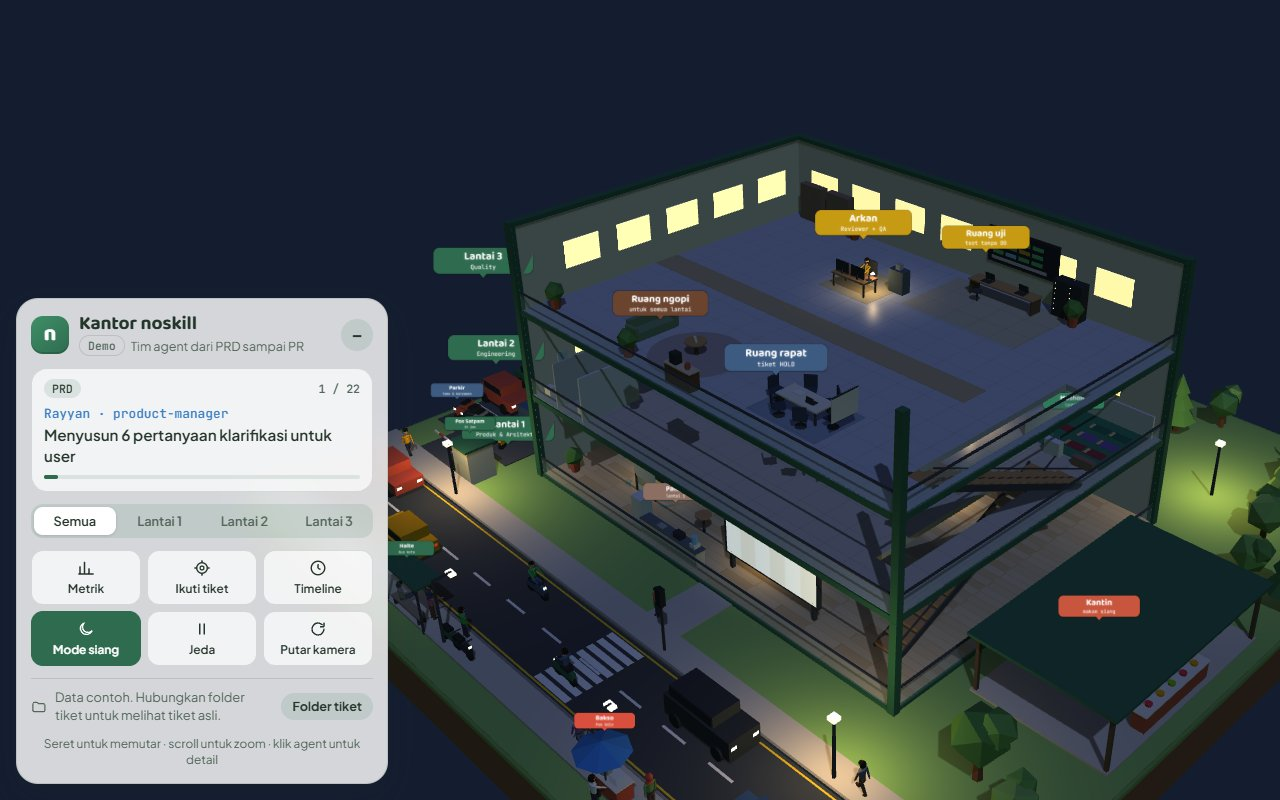
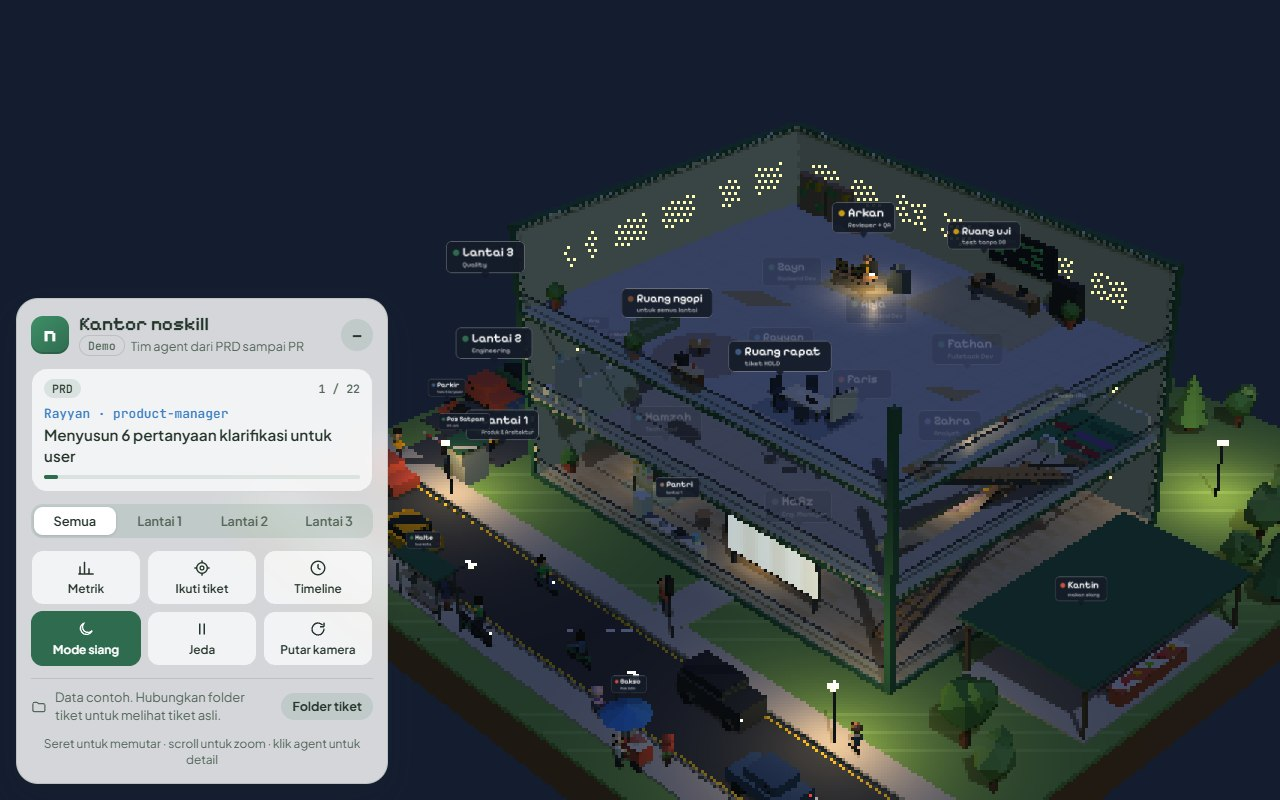
feat(kantor): tampilan pixel-art isometrik dan karakter chibi (2.2.0)
- Dunia 3D dirender 1/3 resolusi lalu diperbesar nearest-neighbour; kamera FOV sempit
- Label dan gelembung dirender terpisah di resolusi penuh; label tertutup lantai atas dibuat samar
- Karakter chibi: kepala 1.7x, kaki lebih pendek, mata besar, pipi merona; offset duduk disesuaikan
- Papan nama gelap dengan titik warna agent dan font Pixelify Sans
- Versi 2.2.0, CHANGELOG, README, docs, dan screenshot

Changed region(s): [[0.2812, 0.1562, 1.0, 1.0], [0.0625, 0.375, 0.1562, 0.4375], [0.375, 0.6562, 0.4062, 0.6875]]

diff --git a/skills/kantor/kantor-noskill.html b/skills/kantor/kantor-noskill.html
@@ -1,7 +1,7 @@
 <title>Kantor noskill</title>
 <link rel="preconnect" href="https://fonts.googleapis.com">
 <link rel="preconnect" href="https://fonts.gstatic.com" crossorigin>
-<link href="https://fonts.googleapis.com/css2?family=Baloo+2:wght@500;700&family=JetBrains+Mono:wght@500&family=Plus+Jakarta+Sans:wght@400;500;600;700&display=swap" rel="stylesheet">
+<link href="https://fonts.googleapis.com/css2?family=Baloo+2:wght@500;700&family=JetBrains+Mono:wght@500&family=Plus+Jakarta+Sans:wght@400;500;600;700&family=Pixelify+Sans:wght@500;600&display=swap" rel="stylesheet">
 <style>
   /* Layout: full-screen 3D office diorama, one floating panel bottom-left with the live ticket log */
   :root {
@@ -15,7 +15,7 @@
     --edge: rgba(36, 53, 42, 0.14);
     --log: rgba(47, 107, 79, 0.08);
     --font-display: "Plus Jakarta Sans", system-ui, -apple-system, "Segoe UI", sans-serif;
-    --font-title: "Baloo 2", "Nunito", "Trebuchet MS", system-ui, sans-serif;
+    --font-title: "Pixelify Sans", "Baloo 2", "Nunito", system-ui, sans-serif;
     --card: rgba(255, 255, 255, 0.7);
     --panel-solid: #ffffff;
     --shadow: 0 12px 32px rgba(20, 40, 30, 0.16), 0 2px 6px rgba(20, 40, 30, 0.08);
@@ -374,26 +374,37 @@
   // ---------- Renderer, scene, camera ----------
   const stage = document.getElementById('stage');
   let renderer;
-  try { renderer = new THREE.WebGLRenderer({ antialias: true }); }
+  try { renderer = new THREE.WebGLRenderer({ antialias: false }); }
   catch (e) { document.getElementById('err').hidden = false; return; }
   renderer.setPixelRatio(Math.min(window.devicePixelRatio || 1, 2));
   renderer.shadowMap.enabled = true;
-  renderer.shadowMap.type = THREE.PCFSoftShadowMap;
+  renderer.shadowMap.type = THREE.PCFShadowMap;
+  renderer.shadowMap.autoUpdate = false;     // updated once per frame in frame(), not again for the label pass
   stage.appendChild(renderer.domElement);
+
+  // Pixel-art look: the world (layer 0) renders into a small target that is shown enlarged with nearest-neighbour
+  // sampling, so every texel becomes a PIX x PIX block. Labels and bubbles (layer 1) render afterwards at full
+  // resolution on top, so their text stays crisp.
+  const PIX = 3;
+  const pixTarget = new THREE.WebGLRenderTarget(1, 1, { minFilter: THREE.NearestFilter, magFilter: THREE.NearestFilter });
+  const postScene = new THREE.Scene(), postCam = new THREE.OrthographicCamera(-1, 1, 1, -1, 0, 1);
+  postScene.add(new THREE.Mesh(new THREE.PlaneGeometry(2, 2), new THREE.MeshBasicMaterial({ map: pixTarget.texture, depthTest: false, depthWrite: false })));
+  const LABEL_LAYER = 1;
 
   const scene = new THREE.Scene();
   const DAY_BG = new THREE.Color(0xbfe3f2);
   const NIGHT_BG = new THREE.Color(0x141d30);
   scene.background = DAY_BG.clone();
-  scene.fog = new THREE.Fog(DAY_BG.clone(), 110, 220);
+  scene.fog = new THREE.Fog(DAY_BG.clone(), 420, 800);
 
-  const camera = new THREE.PerspectiveCamera(35, 1, 0.1, 600);
+  // a narrow field of view from further away reads as (almost) isometric, like a pixel-art diorama
+  const camera = new THREE.PerspectiveCamera(24, 1, 0.5, 800);
   const controls = new THREE.OrbitControls(camera, renderer.domElement);
   controls.target.set(0, 6, 0);
   controls.enableDamping = true;
   controls.dampingFactor = 0.08;
-  controls.minDistance = 16;
-  controls.maxDistance = 160;
+  controls.minDistance = 24;
+  controls.maxDistance = 240;
   controls.maxPolarAngle = Math.PI * 0.47;
   const reduceMotion = window.matchMedia && window.matchMedia('(prefers-reduced-motion: reduce)').matches;
   controls.autoRotate = !reduceMotion;
@@ -402,7 +413,7 @@
   // camera distance for the whole office (n = -1) or one storey; narrow screens step back to fit the width
   function viewDist(n, aspect) {
     aspect = aspect || stage.clientWidth / stage.clientHeight;
-    const base = n < 0 ? 66 : 46;
+    const base = n < 0 ? 98 : 68;
     return base * Math.max(1, Math.min(2, 1.75 / aspect));
   }
   let distGoal = null;
@@ -414,6 +425,7 @@
   function resize() {
     const w = stage.clientWidth, h = stage.clientHeight;
     renderer.setSize(w, h, false);
+    pixTarget.setSize(Math.max(1, Math.round(w / PIX)), Math.max(1, Math.round(h / PIX)));
     camera.aspect = w / h;
     // on wide screens the open panel covers the left; shift the picture right so the office sits beside it
     const pn = document.getElementById('panel');
@@ -530,11 +542,13 @@
     const t = new THREE.CanvasTexture(cv); t.wrapS = t.wrapT = THREE.RepeatWrapping; t.anisotropy = 4;
     return t;
   });
+  const SLABS = [];   // floor slabs, used to dim labels hidden behind an upper storey (see scaleLabels)
   function floorPiece(k, w, d, x, y, z, o) {
     const t = floorTex[k].clone(); t.needsUpdate = true;
     const tile = k === 0 ? 4 : 1.6;
     t.repeat.set(w / tile, d / tile);
     const m = box(w, 0.3, d, 0, x, y, z, Object.assign({ material: new THREE.MeshStandardMaterial({ map: t, roughness: k === 0 ? 0.7 : 0.45 }) }, o));
+    SLABS.push(m);
     return m;
   }
   function slab(k) {
@@ -612,6 +626,7 @@
   // People with human proportions: rounded torso and limbs, shoes, belt, a face with eyes, irises, brows,
   // nose, lips and ears, per-person hair styles, beard, glasses, tie, ID card, and a hijab that frames the
   // face. Pivots stay where the poses expect them: legs at the hip, arms at the shoulder, hand 0.72 below it.
+  const CHIBI = 1.7, CHIBI_LEG = 0.75;
   function makePerson(o) {
     const g = new THREE.Group();
     const hip = 0.95, hy = hip + 1.1;
@@ -658,8 +673,10 @@
     [0.172, -0.172].forEach(function (ex) { part(g, SPHERE(0.042), skin, ex, hy - 0.01, -0.01, { s: [0.45, 1, 0.8] }); });
     // face: eyes with irises, brows, nose, lips
     [0.068, -0.068].forEach(function (ex) {
-      part(g, SPHERE(0.026), white, ex * 0.92, hy + 0.025, 0.158, { s: [1.2, 0.68, 0.45] });
-      part(g, SPHERE(0.014), dark, ex * 0.92, hy + 0.025, 0.169, { s: [1, 1, 0.5] });
+      part(g, SPHERE(0.032), white, ex * 0.95, hy + 0.02, 0.156, { s: [1.0, 1.1, 0.45] });        // big chibi eyes
+      part(g, SPHERE(0.028), smat(0x2b1d14, 0.3), ex * 0.95, hy + 0.012, 0.165, { s: [0.95, 1.15, 0.5] });
+      part(g, SPHERE(0.008), white, ex * 0.95 + 0.009, hy + 0.028, 0.18);                         // eye highlight
+      part(g, SPHERE(0.03), smat(0xf2a3a0, 0.6), ex * 1.45, hy - 0.045, 0.14, { s: [1.1, 0.6, 0.35] });   // blush
       part(g, geo('brow', function () { return new THREE.BoxGeometry(0.062, 0.013, 0.018); }), o.hijab ? smat(0x2b1d14, 0.85) : hairM, ex * 0.92, hy + 0.068, 0.162, { r: [0, 0, ex > 0 ? -0.1 : 0.1] });
     });
     part(g, SPHERE(0.026), skin, 0, hy - 0.022, 0.18, { s: [0.7, 1.35, 1.15] });
@@ -677,7 +694,7 @@
       const hj = smat(o.hijab, 0.85, THREE.DoubleSide), W = 1.9;
       part(g, SHELL(0.215, Math.PI / 2 + W / 2, Math.PI * 2 - W, 0, Math.PI * 0.8), hj, 0, hy + 0.01, -0.01, { s: [0.97, 1.12, 1.02], cast: true });
       part(g, SHELL(0.215, Math.PI / 2 - W / 2, W, 0, Math.PI * 0.27), hj, 0, hy + 0.01, -0.01, { s: [0.97, 1.12, 1.02] });
-      part(g, TUBE(0.15, 0.27, 0.3), hj, 0, hip + 0.83, 0.01, { s: [1, 1, 0.72], cast: true });
+      part(g, TUBE(0.15, 0.27, 0.3), hj, 0, hip + 0.83, 0.01, { s: [1, 1, 0.72], cast: true }).userData.head = true;
     } else {
       const style = o.style || 'short';
       part(g, SHELL(0.2, 0, Math.PI * 2, 0, Math.PI * 0.4), hairM, 0, hy + 0.01, -0.005, { s: [1.0, 1.15, 1.04], cast: true });
@@ -694,7 +711,16 @@
         part(g, geo('stache', function () { return new THREE.BoxGeometry(0.075, 0.016, 0.02); }), hairM, 0, hy - 0.058, 0.17);
       }
     }
-    g.scale.setScalar(o.scale || 0.75);
+    // chibi: everything above the neck (and the hijab drape) moves into one group that grows from the neck,
+    // so the head and face read at pixel-art size, like the agents in a pixel office
+    const head = new THREE.Group(); head.position.set(0, hip + 0.9, 0); g.add(head);
+    g.children.slice().forEach(function (c) { if (c.isMesh && (c.position.y > hip + 0.95 || c.userData.head)) head.attach(c); });
+    head.scale.setScalar(CHIBI);
+    // chibi legs: shorter, with the whole body lowered so the shoes still touch the floor
+    const drop = 0.915 * (1 - CHIBI_LEG);
+    legL.scale.y = legR.scale.y = CHIBI_LEG;
+    g.children.forEach(function (c) { c.position.y -= drop; });
+    g.scale.setScalar(o.scale || 0.72);
     g.userData = { legL: legL, legR: legR, armL: armL, armR: armR, female: !!o.hijab };
     (o.parent || scene).add(g);
     return g;
@@ -710,34 +736,38 @@
     const tex = new THREE.CanvasTexture(cv);
     function draw() {
       const x = cv.getContext('2d');
+      // pixel-office name tag: dark pill, a dot in the agent's colour, white name, muted role underneath
       x.clearRect(0, 0, 512, 168);
-      x.fillStyle = hex(color);
+      x.font = '600 50px "Pixelify Sans", "Baloo 2", sans-serif';
+      const w = Math.min(496, Math.max(x.measureText(title).width + 110, 260)), x0 = (512 - w) / 2;
+      x.fillStyle = 'rgba(20, 27, 40, 0.92)';
       x.beginPath();
-      if (x.roundRect) x.roundRect(8, 8, 496, 132, 30); else x.rect(8, 8, 496, 132);
+      if (x.roundRect) x.roundRect(x0, 10, w, 128, 22); else x.rect(x0, 10, w, 128);
       x.fill();
-      x.beginPath(); x.moveTo(236, 138); x.lineTo(256, 162); x.lineTo(276, 138); x.fill();
-      x.fillStyle = '#ffffff';
-      x.textAlign = 'center'; x.textBaseline = 'middle';
-      x.font = '700 54px "Baloo 2", "Trebuchet MS", sans-serif';
-      x.fillText(title, 256, 58);
-      x.font = '500 30px "JetBrains Mono", Menlo, monospace';
-      x.globalAlpha = 0.92;
-      x.fillText(sub, 256, 108);
-      x.globalAlpha = 1;
+      x.strokeStyle = 'rgba(255, 255, 255, 0.18)'; x.lineWidth = 3; x.stroke();
+      x.beginPath(); x.moveTo(240, 137); x.lineTo(256, 158); x.lineTo(272, 137); x.fill();
+      x.fillStyle = hex(color); x.beginPath(); x.arc(x0 + 40, 56, 13, 0, Math.PI * 2); x.fill();
+      x.fillStyle = '#ffffff'; x.textAlign = 'left'; x.textBaseline = 'middle';
+      x.fillText(title, x0 + 66, 56, w - 84);
+      x.font = '500 28px "Pixelify Sans", "JetBrains Mono", monospace';
+      x.fillStyle = 'rgba(255, 255, 255, 0.62)';
+      x.fillText(sub, x0 + 66, 106, w - 84);
       tex.needsUpdate = true;
     }
     draw();
     if (document.fonts && document.fonts.ready) document.fonts.ready.then(draw);
     const sp = new THREE.Sprite(new THREE.SpriteMaterial({ map: tex, transparent: true, depthWrite: false }));
     sp.scale.set(4.4, 1.44, 1);
+    sp.layers.set(LABEL_LAYER);
     LABELS.push(sp);
     return sp;
   }
   // Labels are placed by their centre; the first time one is seen it is re-anchored on its bottom tip, so growing
   // it for a far camera pushes it up instead of over the agent's head. Then it scales with camera distance:
   // small when zoomed in on a storey, larger from the overview, within limits.
+  const labelRay = new THREE.Raycaster(), labelPos = new THREE.Vector3(), labelPos2 = new THREE.Vector3();
   function scaleLabels() {
-    const f = Math.max(0.85, Math.min(1.6, camera.position.distanceTo(controls.target) / 55));
+    const f = Math.max(0.3, Math.min(1.6, camera.position.distanceTo(controls.target) / 66));
     for (let i = LABELS.length - 1; i >= 0; i--) {
       const sp = LABELS[i];
       if (!sp.parent) { LABELS.splice(i, 1); continue; }
@@ -748,6 +778,12 @@
         Object.keys(ST).forEach(function (k) { if (ST[k].label === sp) ST[k].labelY -= sp.scale.y / 2; });
       }
       sp.scale.set(sp.userData.base.x * f, sp.userData.base.y * f, 1);
+      // labels render on top of the pixel world, so dim the ones an upper floor slab stands in front of
+      sp.getWorldPosition(labelPos);
+      labelRay.set(camera.position, labelPos.sub(camera.position).normalize());
+      labelRay.far = camera.position.distanceTo(sp.getWorldPosition(labelPos2));
+      const hidden = labelRay.intersectObjects(SLABS.filter(function (m) { return m.parent.visible; }), false).length > 0;
+      sp.material.opacity += ((hidden ? 0.18 : 1) - sp.material.opacity) * 0.2;
     }
   }
 
@@ -853,7 +889,7 @@
       tie: look.tie || null, card: a.color, parent: g
     });
     person.userData.key = a.key;
-    person.position.set(0, -0.18, 0);
+    person.position.set(0, 0, 0);
     person.userData.legL.rotation.x = -Math.PI / 2;
     person.userData.legR.rotation.x = -Math.PI / 2;
 
@@ -1115,11 +1151,11 @@
   // Places agents can walk to: the shared coffee corner and the meeting room
   const PLACES = {
     lounge: { floor: LOUNGE_FLOOR, x: LOUNGE.x, z: LOUNGE.z, spots: LOUNGE_SPOTS, taken: loungeTaken },
-    meeting: { floor: MEETING_FLOOR, x: MEETING.x, z: MEETING.z, spots: [[-0.7, -0.95], [0.7, -0.95], [-0.7, 0.95], [0.7, 0.95], [-1.75, 0], [1.75, 0]], taken: {}, seat: 0.18 },
+    meeting: { floor: MEETING_FLOOR, x: MEETING.x, z: MEETING.z, spots: [[-0.7, -0.95], [0.7, -0.95], [-0.7, 0.95], [0.7, 0.95], [-1.75, 0], [1.75, 0]], taken: {}, seat: 0.01 },
     pantry: { floor: 0, x: PANTRY.x, z: PANTRY.z, spots: [[0, -0.85], [0.85, 0], [-0.85, 0], [0, 0.85]], taken: {}, stay: [18, 35] },
     toilet: { floor: 1, x: TOILET.x, z: TOILET.z, spots: [[-1.1, 0.4], [1.1, 0.4]], taken: {}, stay: [7, 11], hide: true },
     musholla: { floor: 1, x: MUSHOLLA.x, z: MUSHOLLA.z, spots: [[-1.3, 0, -Math.PI / 2], [0.2, -1.1, -Math.PI / 2], [0.2, 0, -Math.PI / 2], [0.2, 1.1, -Math.PI / 2], [1.4, -1.1, -Math.PI / 2], [1.4, 0, -Math.PI / 2], [1.4, 1.1, -Math.PI / 2]], taken: {}, stay: [22, 35] },
-    kantin: { floor: 0, x: KANTIN.x, z: KANTIN.z, y: 0.12, via: [[12.9, FY[0], 0.5], [14.8, 0.12, 0.5]], seat: 0.34, taken: {}, stay: [40, 80],
+    kantin: { floor: 0, x: KANTIN.x, z: KANTIN.z, y: 0.12, via: [[12.9, FY[0], 0.5], [14.8, 0.12, 0.5]], seat: 0.15, taken: {}, stay: [40, 80],
       spots: [[-1.95, -1.2, Math.PI / 2], [-1.95, 0.4, Math.PI / 2], [-1.95, 2.0, Math.PI / 2], [-0.45, -1.2, -Math.PI / 2], [-0.45, 0.4, -Math.PI / 2], [-0.45, 2.0, -Math.PI / 2],
         [0.65, -1.2, Math.PI / 2], [0.65, 0.4, Math.PI / 2], [0.65, 2.0, Math.PI / 2], [2.15, -1.2, -Math.PI / 2], [2.15, 0.4, -Math.PI / 2]] }
   };
@@ -1228,6 +1264,7 @@
     const tex = new THREE.CanvasTexture(cv);
     const sp = new THREE.Sprite(new THREE.SpriteMaterial({ map: tex, transparent: true, depthWrite: false }));
     sp.scale.set(4.5, 1.05, 1);
+    sp.layers.set(LABEL_LAYER);
     scene.add(sp);
     return sp;
   }
@@ -3027,7 +3064,17 @@
       applyNight(night);
     }
     controls.update();
-    renderer.render(scene, camera);
+    renderer.shadowMap.needsUpdate = true;
+    renderer.setRenderTarget(pixTarget);
+    renderer.render(scene, camera);                       // world, small
+    renderer.setRenderTarget(null);
+    renderer.render(postScene, postCam);                  // enlarged, blocky
+    const bg = scene.background;                          // a colour background would clear the frame again
+    scene.background = null; renderer.autoClear = false;
+    camera.layers.set(LABEL_LAYER);
+    renderer.render(scene, camera);                       // labels and bubbles, full resolution, on top
+    camera.layers.set(0);
+    scene.background = bg; renderer.autoClear = true;
     requestAnimationFrame(frame);
   }
   requestAnimationFrame(frame);

diff --git a/docs/skills.html b/docs/skills.html
@@ -161,7 +161,7 @@ html { scroll-behavior: smooth; }
         <figure><img src="img/kantor-malam.jpg" alt="Kantor saat malam dengan lampu meja dan lampu jalan menyala" width="1280" height="800" loading="lazy"><figcaption>Mode malam: lampu meja dan lampu jalan menyala.</figcaption></figure>
       </div>
       </div>
-      <dl><dt>Cara pakai</dt><dd><code>/noskill:kantor</code>. Di Cowork/claude.ai halaman diterbitkan sebagai artifact milikmu (atau artifact lama diperbarui). Di Claude Code terminal halaman disalin ke folder docs dan berjalan dalam mode demo.</dd><dt>Lantai</dt><dd><ul><li>Lantai 1, Produk &amp; Arsitektur: Product Manager, CTO, Analyst, Tech Lead, Eng. Manager dengan board tiket.</li><li>Lantai 2, Engineering: Backend, Frontend, Fullstack Dev.</li><li>Lantai 3, Quality: Reviewer (sekaligus QA) di samping <em>Ruang uji</em> (papan CI dan rak server yang lampunya hijau/merah mengikuti verdict), plus rak buku.</li><li><em>Ruang ngopi</em> bersama di Lantai 3: agent dari semua lantai yang tidak punya pekerjaan sekitar 20 detik naik ke sana untuk ngopi, lalu kembali ke mejanya begitu ada tiket atau tahap untuknya.</li><li>Fasilitas lain: <em>Pantri</em> di Lantai 1, <em>Toilet</em> dan <em>Musholla</em> di Lantai 2, dan <em>Kantin</em> di halaman. Agent yang menganggur bergantian ke sana atau mampir ngobrol ke meja rekan; saat waktu salat ke musholla, saat makan siang ke kantin.</li><li>Agent saling menyapa dan mengobrol lewat gelembung bicara, dan penerima tiket membalas kurir yang mengantarnya.</li><li>Di luar kantor ada jalan raya dengan mobil dan motor yang berhenti di zebra cross saat ada orang menyeberang, parkiran dengan pos satpam, halte, pangkalan ojek, dan gerobak bakso.</li></ul></dd><dt>Yang bisa dilakukan</dt><dd><ul><li>Karakter semi-realistis dengan ciri masing-masing (hijab, jenggot, kacamata, gaya rambut); lantai 1 berparket, lantai 2–3 berubin.</li><li>Panel: langkah yang sedang berjalan dengan progres, pemilih lantai, dan toolbar (Metrik, Ikuti tiket, Timeline, Mode malam, Jeda, Putar kamera).</li><li>Klik agent: kartu dengan avatar, deskripsi, skill, tools, model, verdict, dan tiket yang sedang dipegang.</li><li>Klik tiket di board: AC, Riwayat, pemegang, dan <em>Putar ulang perjalanan</em>.</li><li><em>Metrik</em>: durasi rata-rata per tahap dan per agent dari baris Riwayat, ronde revisi terbanyak, daftar HOLD.</li><li>Filter per proyek/fitur, tombol lantai, <em>Ikuti tiket</em> (kamera mengikuti agent yang berjalan), panel yang bisa dikecilkan.</li><li>Orang lain yang membuka kantor tampil di panel dan di lobi Lantai 1.</li><li>Tiket HOLD bisa dijawab langsung di detail tiket; <code>/noskill:tiket lanjut</code> mengambil jawabannya. Selama HOLD, Eng. Manager dan agent pemegang tiket menunggu di <em>Ruang rapat</em> Lantai 3.</li><li>Setiap agent punya nama: Rayyan (PM), Faris (CTO), Zahra (Analyst), Hamzah (Tech Lead), Zayn (Backend), Alya (Frontend), Fathan (Fullstack), Arkan (Reviewer + QA), Hafiz (Eng. Manager).</li><li>Gelembung bicara menampilkan verdict yang dibawa agent, <em>Metrik</em> menampilkan token per agent dan per tiket, dan <em>Timeline</em> menampilkan perpindahan status hari ini.</li><li>Agent yang sedang mengerjakan PRD, ADR, atau BRD ikut menyala, dibaca dari <code>activity.json</code> yang ditulis <code>feature-flow</code>.</li></ul></dd><dt>Data live</dt><dd><ol><li>Tambahkan MCP <code>filesystem</code> di config Claude desktop, berisi folder induk proyek.</li><li>Buka artifact di aplikasi Claude desktop → <em>Folder tiket</em> → tempel path <code>docs/noskill</code> (atau folder <code>tickets</code>), satu per baris → <em>Pakai data live</em>.</li><li>Board disimpan ke database artifact, jadi di browser dan HP tampil sebagai <em>Snapshot</em>.</li></ol></dd><dt>Batasan</dt><dd>Membaca folder lokal hanya bisa di aplikasi Claude desktop dan pada artifact milikmu sendiri. Tanpa data live, halaman memutar contoh alur tiket.</dd></dl>
+      <dl><dt>Cara pakai</dt><dd><code>/noskill:kantor</code>. Di Cowork/claude.ai halaman diterbitkan sebagai artifact milikmu (atau artifact lama diperbarui). Di Claude Code terminal halaman disalin ke folder docs dan berjalan dalam mode demo.</dd><dt>Lantai</dt><dd><ul><li>Lantai 1, Produk &amp; Arsitektur: Product Manager, CTO, Analyst, Tech Lead, Eng. Manager dengan board tiket.</li><li>Lantai 2, Engineering: Backend, Frontend, Fullstack Dev.</li><li>Lantai 3, Quality: Reviewer (sekaligus QA) di samping <em>Ruang uji</em> (papan CI dan rak server yang lampunya hijau/merah mengikuti verdict), plus rak buku.</li><li><em>Ruang ngopi</em> bersama di Lantai 3: agent dari semua lantai yang tidak punya pekerjaan sekitar 20 detik naik ke sana untuk ngopi, lalu kembali ke mejanya begitu ada tiket atau tahap untuknya.</li><li>Fasilitas lain: <em>Pantri</em> di Lantai 1, <em>Toilet</em> dan <em>Musholla</em> di Lantai 2, dan <em>Kantin</em> di halaman. Agent yang menganggur bergantian ke sana atau mampir ngobrol ke meja rekan; saat waktu salat ke musholla, saat makan siang ke kantin.</li><li>Agent saling menyapa dan mengobrol lewat gelembung bicara, dan penerima tiket membalas kurir yang mengantarnya.</li><li>Di luar kantor ada jalan raya dengan mobil dan motor yang berhenti di zebra cross saat ada orang menyeberang, parkiran dengan pos satpam, halte, pangkalan ojek, dan gerobak bakso.</li></ul></dd><dt>Yang bisa dilakukan</dt><dd><ul><li>Tampilan pixel-art isometrik: dunia 3D dirender blocky, papan nama gelap dengan titik warna agent tetap tajam, dan label agent di lantai yang tertutup dibuat samar.</li><li>Karakter chibi (kepala besar, mata besar, pipi merona) dengan ciri masing-masing: hijab, jenggot, kacamata, gaya rambut; lantai 1 berparket, lantai 2–3 berubin.</li><li>Panel: langkah yang sedang berjalan dengan progres, pemilih lantai, dan toolbar (Metrik, Ikuti tiket, Timeline, Mode malam, Jeda, Putar kamera).</li><li>Klik agent: kartu dengan avatar, deskripsi, skill, tools, model, verdict, dan tiket yang sedang dipegang.</li><li>Klik tiket di board: AC, Riwayat, pemegang, dan <em>Putar ulang perjalanan</em>.</li><li><em>Metrik</em>: durasi rata-rata per tahap dan per agent dari baris Riwayat, ronde revisi terbanyak, daftar HOLD.</li><li>Filter per proyek/fitur, tombol lantai, <em>Ikuti tiket</em> (kamera mengikuti agent yang berjalan), panel yang bisa dikecilkan.</li><li>Orang lain yang membuka kantor tampil di panel dan di lobi Lantai 1.</li><li>Tiket HOLD bisa dijawab langsung di detail tiket; <code>/noskill:tiket lanjut</code> mengambil jawabannya. Selama HOLD, Eng. Manager dan agent pemegang tiket menunggu di <em>Ruang rapat</em> Lantai 3.</li><li>Setiap agent punya nama: Rayyan (PM), Faris (CTO), Zahra (Analyst), Hamzah (Tech Lead), Zayn (Backend), Alya (Frontend), Fathan (Fullstack), Arkan (Reviewer + QA), Hafiz (Eng. Manager).</li><li>Gelembung bicara menampilkan verdict yang dibawa agent, <em>Metrik</em> menampilkan token per agent dan per tiket, dan <em>Timeline</em> menampilkan perpindahan status hari ini.</li><li>Agent yang sedang mengerjakan PRD, ADR, atau BRD ikut menyala, dibaca dari <code>activity.json</code> yang ditulis <code>feature-flow</code>.</li></ul></dd><dt>Data live</dt><dd><ol><li>Tambahkan MCP <code>filesystem</code> di config Claude desktop, berisi folder induk proyek.</li><li>Buka artifact di aplikasi Claude desktop → <em>Folder tiket</em> → tempel path <code>docs/noskill</code> (atau folder <code>tickets</code>), satu per baris → <em>Pakai data live</em>.</li><li>Board disimpan ke database artifact, jadi di browser dan HP tampil sebagai <em>Snapshot</em>.</li></ol></dd><dt>Batasan</dt><dd>Membaca folder lokal hanya bisa di aplikasi Claude desktop dan pada artifact milikmu sendiri. Tanpa data live, halaman memutar contoh alur tiket.</dd></dl>
     </section>
     <section class="skill" id="project-profile">
       <h3><code>project-profile</code><span class="tag">sekali per project</span></h3>

diff --git a/docs/index.html b/docs/index.html
@@ -124,7 +124,7 @@
         <div class="eyebrow">Plugin Claude Code</div>
         <h1>noskill</h1>
         <div align="center">
-          <img alt="Version 2.1.0" src="https://img.shields.io/badge/version-2.1.0-1d6b57?style=flat-square&logo=github" />
+          <img alt="Version 2.2.0" src="https://img.shields.io/badge/version-2.2.0-1d6b57?style=flat-square&logo=github" />
         </div>
         <p class="lede">Skill dan agent untuk kerja development seperti tim engineering: tiket dikerjakan developer, lalu reviewer mengecek kode sekaligus menjalankan test dan cara verifikasinya, lalu masuk DONE. Kodenya hanya mengubah yang diminta, bukan refactor tanpa alasan. Cocok untuk bug fix, fitur kecil, fitur besar, dan multi-repo.</p>
         <div class="cmd"><pre>/plugin install noskill --marketplace awahids/noskill</pre><button type="button" data-copy>Salin</button></div>
@@ -247,7 +247,7 @@ claude --plugin-dir ./noskill</pre><button type="button" data-copy>Salin</button
       </table></div>
 
       <h2 id="kantor">Kantor noskill</h2>
-      <p><code>/noskill:kantor</code> membuka kantor 3D tempat agent noskill bekerja. Board tiket dibaca live dari <code>docs/noskill</code>, agent semi-realistis berjalan mengantar tiket ke agent berikutnya, Arkan (Reviewer + QA) bekerja di samping Ruang uji, dan agent yang menganggur ngopi, makan di kantin, atau mampir ngobrol. Detailnya ada di <a href="skills.html#kantor">halaman skill</a>.</p>
+      <p><code>/noskill:kantor</code> membuka kantor 3D tempat agent noskill bekerja. Board tiket dibaca live dari <code>docs/noskill</code>, agent chibi bergaya pixel-art berjalan mengantar tiket ke agent berikutnya, Arkan (Reviewer + QA) bekerja di samping Ruang uji, dan agent yang menganggur ngopi, makan di kantin, atau mampir ngobrol. Detailnya ada di <a href="skills.html#kantor">halaman skill</a>.</p>
       <div class="shots">
         <figure><img src="img/kantor-overview.jpg" alt="Kantor noskill: kantor tiga lantai dengan panel baru, ruang uji, ruang ngopi, ruang rapat, kantin, jalan raya, dan parkiran" width="1280" height="800" loading="lazy"><figcaption>Kantor tiga lantai dengan panel baru, Ruang uji, fasilitas kantor, jalan raya, dan parkiran.</figcaption></figure>
         <div class="row">

diff --git a/README.md b/README.md
@@ -8,7 +8,7 @@
 # noskill
 
 <div align="center">
-  <img alt="Version 2.1.0" src="https://img.shields.io/badge/version-2.1.0-1d6b57?style=flat-square&logo=github" />
+  <img alt="Version 2.2.0" src="https://img.shields.io/badge/version-2.2.0-1d6b57?style=flat-square&logo=github" />
 </div>
 
 Koleksi Claude Skills & Agent untuk kerja development sehari-hari — dipaketkan sebagai plugin `noskill`, termasuk tim engineering lengkap dalam bentuk agent: Product Manager, CTO, analyst, tech lead, developer backend/frontend, dan reviewer (sekaligus QA).
@@ -17,7 +17,7 @@ Koleksi Claude Skills & Agent untuk kerja development sehari-hari — dipaketkan
 
 ## Kantor noskill
 
-`/noskill:kantor` membuka kantor 3D tempat agent noskill bekerja: tiga lantai, board tiket live dari `docs/noskill`, agent semi-realistis yang berjalan mengantar tiket, Ruang uji tempat Arkan (Reviewer + QA) memverifikasi tiket, dan suasana kantor di sekitarnya. Panelnya menampilkan langkah yang sedang berjalan, pemilih lantai, dan toolbar (metrik, ikuti tiket, timeline, mode malam).
+`/noskill:kantor` membuka kantor 3D tempat agent noskill bekerja: tiga lantai, board tiket live dari `docs/noskill`, agent chibi bergaya pixel-art yang berjalan mengantar tiket, Ruang uji tempat Arkan (Reviewer + QA) memverifikasi tiket, dan suasana kantor di sekitarnya. Panelnya menampilkan langkah yang sedang berjalan, pemilih lantai, dan toolbar (metrik, ikuti tiket, timeline, mode malam).
 
 ![Kantor noskill: kantor tiga lantai dengan panel baru, ruang uji, ruang ngopi, ruang rapat, kantin, jalan raya, dan parkiran](docs/img/kantor-overview.jpg)
 

diff --git a/CHANGELOG.md b/CHANGELOG.md
@@ -2,6 +2,15 @@
 
 Format: versi terbaru di atas. Versi di `.claude-plugin/plugin.json` dinaikkan setiap rilis supaya pengguna mendapat update.
 
+## 2.2.0 — 2026-11-03
+
+### Diubah — Kantor bergaya pixel-art
+- **Render pixel-art isometrik.** Dunia 3D dirender di resolusi rendah (1/3) lalu diperbesar tanpa penghalusan, dengan kamera FOV sempit dari jauh sehingga terlihat hampir isometrik. Tetap bisa diputar dan di-zoom.
+- **Label tetap tajam.** Papan nama dan gelembung bicara dirender terpisah di resolusi penuh di atas dunia pixel; label agent yang tertutup lantai di atasnya dibuat samar.
+- **Karakter chibi.** Kepala 1,7× lebih besar, kaki lebih pendek, mata besar dengan kilau, pipi merona; hijab, jenggot, kacamata, dan rambut tetap khas per agent.
+- **Papan nama gaya pixel office:** pill gelap, titik warna agent, font Pixelify Sans. Judul panel ikut memakai font pixel.
+- Branding tetap noskill; tidak memakai simbol atau karakter dari IP pihak lain.
+
 ## 2.1.0 — 2026-11-03
 
 ### Diubah — review dan QA jadi satu agent, verifikasi tanpa database
